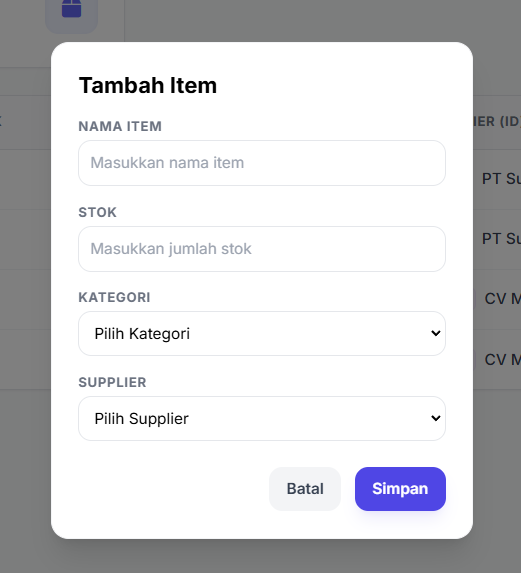
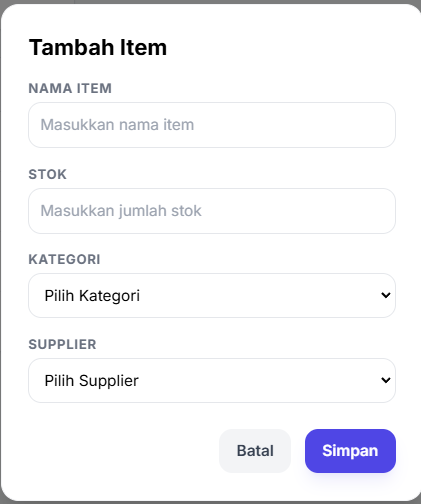
edit file

diff --git a/README.md b/README.md
@@ -80,7 +80,8 @@ Aplikasi ini merupakan sistem manajemen inventaris berbasis web yang dibangun me
 ---
 
 ## Struktur Folder Project
-'''
+
+```
 backend-api/
 │
 ├── app/
@@ -97,7 +98,8 @@ frontend-spa/
 ├── index.html
 ├── dashboard.html
 └── assets (optional)
-'''
+```
+
 ---
 
 ## Cara Menjalankan Project
@@ -119,51 +121,51 @@ frontend-spa/
 ## Endpoint API
 
 ### Authentication
-1. POST /login
+**1. POST /login**
 <img src="gambar/postman login.png">
 
 ### Items
-2. GET /items
+**2. GET /items**
 <img src="gambar/get items.png">
-3. POST /items
+**3. POST /items**
 <img src="gambar/put items.png">
-4. PUT /items/{id}
+**4. PUT /items/{id}**
 <img src="gambar/put items.png">
-5. DELETE /items/{id}
+**5. DELETE /items/{id}**
 <img src="gambar/delete items.png">
 
 ### Categories
-1. GET /categories
+**1. GET /categories**
 <img src="gambar/get categories.png">
 
 ### Suppliers
-1. GET /suppliers
+**1. GET /suppliers**
 <img src="gambar/get suppliers.png">
 
 ---
 
 ## Header Authorization
[2 lines of base64/hex data omitted]
 <img src="gambar/Header Authorization.png">
 
 ---
 
 ## Screenshot yang Wajib Dilampirkan
-1. Halaman login
+**1. Halaman login**
 <img src="gambar/halaman login.png">
-2. Dashboard admin
+**2. Dashboard admin**
 <img src="gambar/dashboard admin.png">
-3. Tabel items
+**3. Tabel items**
 <img src="gambar/dashboard item.png">
-4. Tambah/edit data
+**4. Tambah/edit data**
 <img src="gambar/tambah item.png">
 
 <img src="gambar/edit item.png">
-5. Postman login (success)
+**5. Postman login (success)**
 <img src="gambar/postman login.png">
-6. Postman request tanpa token (401 Unauthorized)
+**6. Postman request tanpa token (401 Unauthorized)**
 <img src="gambar/postman request tanpa token (401 Unauthorized).png">
-7. Struktur database phpMyAdmin
+**7. Struktur database phpMyAdmin**
 <img src="gambar/struktur database phpmyadmin.png">
 
 ---